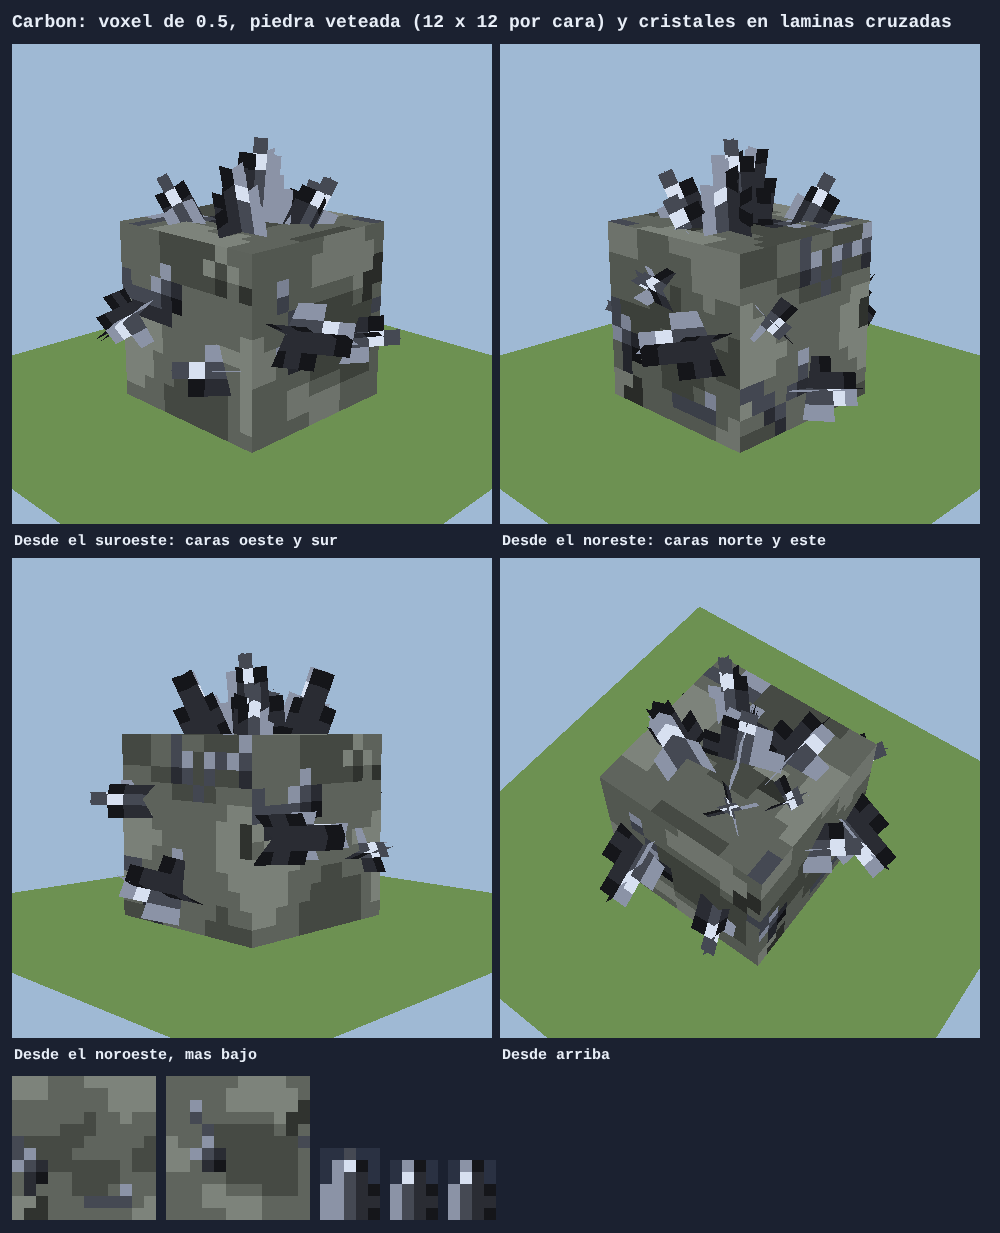
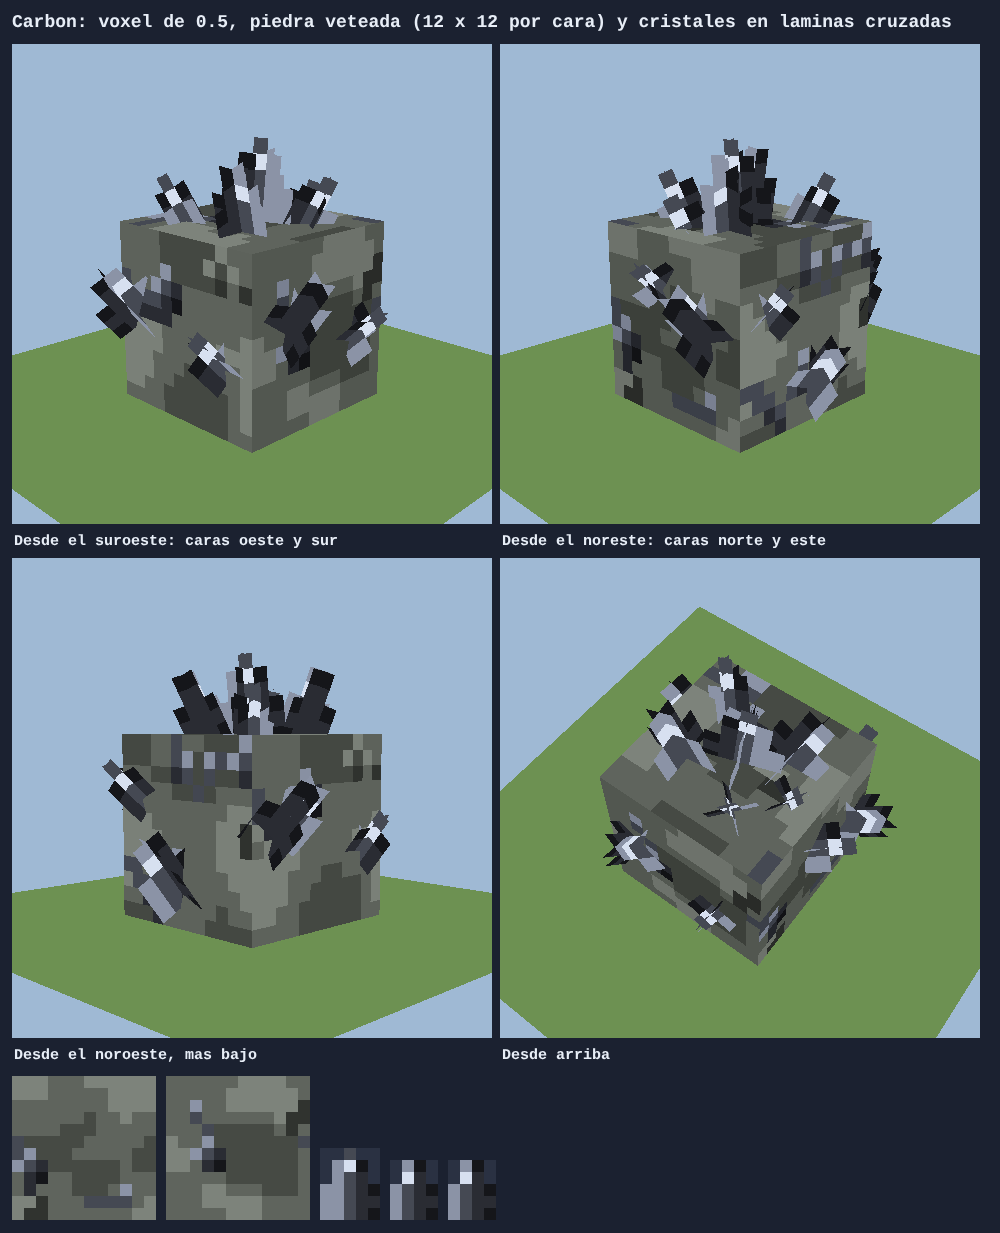
Boceto de minerales: en el voxel, los cristales de los lados hacia arriba (30-56 grados) con un arco horizontal de 0-20
Claude-Session: https://claude.ai/code/session_01XutUh4eVSdN6S6kRiv2aM4

diff --git a/docs/bocetos/minerales/index.html b/docs/bocetos/minerales/index.html
@@ -245,9 +245,12 @@ const sides = [
   [new THREE.Vector3(0, 0, -1), (u, v) => new THREE.Vector3(u * S, v * S, -0.5 * S)],
 ];
 /**
- * Los dos cristales de una cara del voxel (el autor, 2026-10-20): cada uno
- * entre 45 y 75 grados con la cara, con la punta en un arco que la lleva hacia
- * el centro de la cara o hacia su borde (de 0 a 30 grados a cada lado), y a una
+ * Los dos cristales de una cara del voxel (el autor, 2026-10-20): **en general
+ * hacia arriba, pero no todos por igual**. Por encima de la horizontal, de 30 a
+ * 56 grados: 56 era lo mas alto que salian la primera vez (de 38 a 56), y el
+ * autor lo quiso de tope, con unos grados para bajar (los 26 son *deduccion*).
+ * Con la punta en un arco horizontal, hacia el centro de la cara o hacia su
+ * borde, de 0 a 20 grados (acotado desde 30). Y a una
  * distancia del otro que varia, **sin que sus bases se toquen nunca**: entre
  * sus pies queda al menos lo que miden sus dos medias bases mas un margen.
  */
@@ -265,16 +268,14 @@ function voxelSide(n, at, k) {
     }
     placed.push([u, v, half]);
     const base = at(u, v);
-    // El arco: del centro de la cara hacia fuera, o al reves, con su desvio.
-    let radial = base.clone().sub(center);
-    if (radial.length() < 1e-3) radial = new THREE.Vector3(n.z, 0, -n.x);
-    radial.normalize().multiplyScalar(r() < 0.5 ? -1 : 1).applyAxisAngle(n, (r() - 0.5) * (Math.PI / 3));
-    const tilt = Math.PI / 4 + r() * (Math.PI / 6); // con la cara: de 45 a 75 grados
-    const axis = n.clone().multiplyScalar(Math.sin(tilt)).add(radial.multiplyScalar(Math.cos(tilt)));
-    // Ninguno cuelga hacia el suelo (el autor, 2026-10-20, opcion 1): si la
-    // inclinacion cae hacia abajo, se refleja hacia arriba. La cara es
-    // vertical, asi que el angulo con ella y el arco siguen siendo los mismos.
-    if (axis.y < 0) axis.y = -axis.y;
+    // El arco, en horizontal: hacia el centro de la cara (-u) o hacia su borde.
+    const along = at(1, 0.5).sub(at(0, 0.5)).normalize(); // +u, en el mundo
+    const toCenter = -Math.sign(u) || 1;
+    const arc = (r() < 0.5 ? toCenter : -toCenter) * r() * (20 * Math.PI / 180);
+    const out = n.clone().multiplyScalar(Math.cos(arc)).add(along.multiplyScalar(Math.sin(arc)));
+    // Y hacia arriba: de 30 a 56 grados sobre la horizontal.
+    const rise = (30 + r() * 26) * (Math.PI / 180);
+    const axis = out.multiplyScalar(Math.cos(rise)).add(UP.clone().multiplyScalar(Math.sin(rise)));
     addCrystal(base, axis, w, h, 200 + k * 10 + i, r() * Math.PI);
   });
 }

diff --git a/docs/pendiente.md b/docs/pendiente.md
@@ -110,8 +110,13 @@ Pidio solo un ejemplo, sin tocar el juego, para el cobre y el carbon.
   grados; el arco dentro-fuera, de 0 a 30**, y «resortea» (el voxel lleva su
   propia semilla). Algunos quedaban mirando al suelo (el arco va en el plano
   de la cara, que es vertical); el autor eligio que **ninguno apunte hacia
-  abajo**: si cae, se refleja hacia arriba. Resorteado otra vez. **Esperando
-  al autor.**
+  abajo**: si cae, se refleja hacia arriba. Resorteado otra vez. Luego el
+  autor: que **en general miren hacia arriba, pero no todos por igual**, con
+  el angulo de la primera vez de tope (salian de 38 a 56 grados sobre la
+  horizontal) y unos grados para bajar; el arco, igual o mas acotado. Hoy: **de
+  30 a 56 grados sobre la horizontal** (los 26 de margen, *deduccion*) y **el
+  arco en horizontal, de 0 a 20** grados hacia el centro o el borde de la cara
+  (*deduccion*). **Esperando al autor.**
 - Lo que elegi yo (*por confirmar*): la piedra gris verdosa, los colores de
   cada mineral (y el cardenillo en las vetas del cobre), cuantos cristales y
   donde, su forma (prisma en punta con su cara de luz y su brillo).
